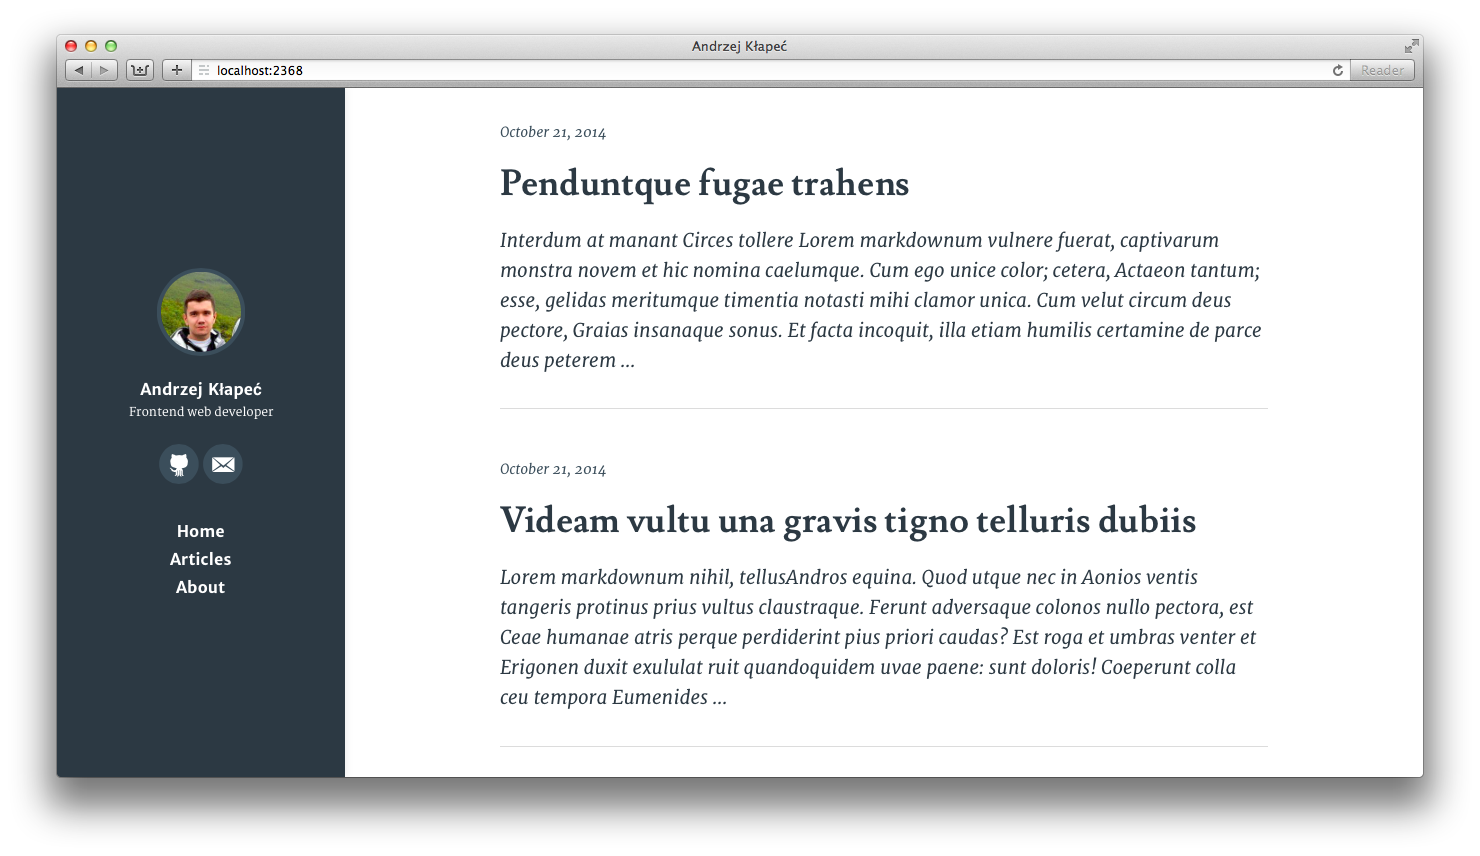
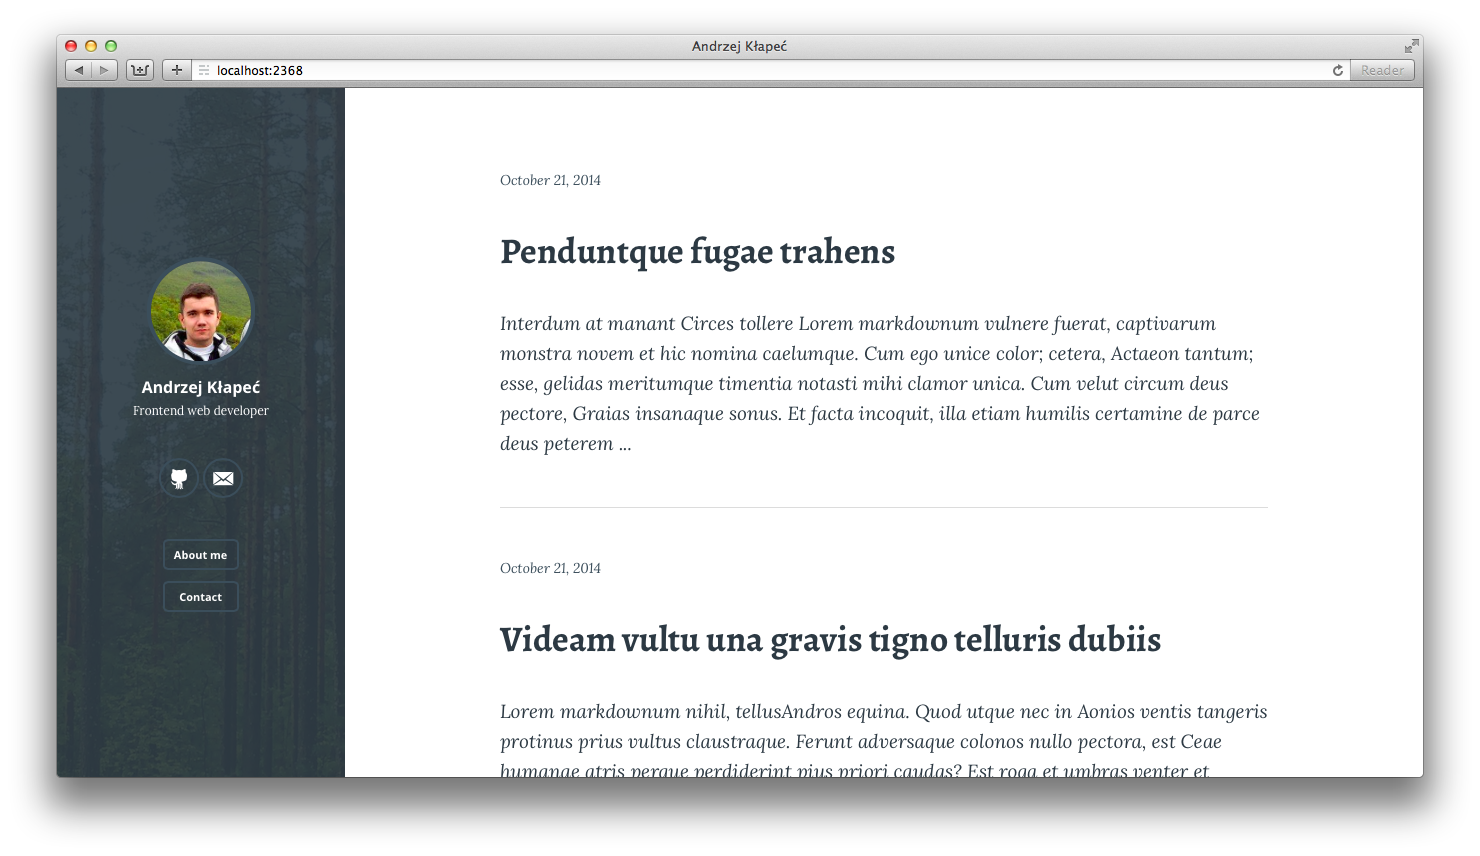
Screenshot update

diff --git a/assets/public/stylesheets/main.min.css b/assets/public/stylesheets/main.min.css
@@ -1,1 +1,1 @@
-/*! normalize.css v3.0.2 | MIT License | git.io/normalize */html{font-family:sans-serif;-ms-text-size-adjust:100%;-webkit-text-size-adjust:100%}body{margin:0}article,aside,details,figcaption,figure,footer,header,hgroup,main,menu,nav,section,summary{display:block}audio,canvas,progress,video{display:inline-block;vertical-align:baseline}audio:not([controls]){display:none;height:0}[hidden],template{display:none}a{background-color:transparent}a:active,a:hover{outline:0}abbr[title]{border-bottom:1px dotted}b,strong{font-weight:700}dfn{font-style:italic}mark{background:#ff0;color:#000}small{font-size:80%}sub,sup{font-size:75%;line-height:0;position:relative;vertical-align:baseline}sup{top:-.5em}sub{bottom:-.25em}img{border:0}svg:not(:root){overflow:hidden}figure{margin:1em 40px}hr{box-sizing:content-box}pre{overflow:auto}code,kbd,pre,samp{font-family:monospace,monospace;font-size:1em}button,input,optgroup,select,textarea{color:inherit;font:inherit;margin:0}button{overflow:visible}button,select{text-transform:none}button,html input[type=button],input[type=reset],input[type=submit]{-webkit-appearance:button;cursor:pointer}button[disabled],html input[disabled]{cursor:default}button::-moz-focus-inner,input::-moz-focus-inner{border:0;padding:0}input{line-height:normal}input[type=checkbox],input[type=radio]{box-sizing:border-box;padding:0}input[type=number]::-webkit-inner-spin-button,input[type=number]::-webkit-outer-spin-button{height:auto}input[type=search]{-webkit-appearance:textfield;box-sizing:content-box}input[type=search]::-webkit-search-cancel-button,input[type=search]::-webkit-search-decoration{-webkit-appearance:none}fieldset{border:1px solid silver;margin:0 2px;padding:.35em .625em .75em}legend{border:0;padding:0}textarea{overflow:auto}optgroup{font-weight:700}table{border-collapse:collapse;border-spacing:0}td,th{padding:0}body{-webkit-font-smoothing:antialiased;-webkit-backface-visibility:hidden;text-rendering:optimizeLegibility;font-family:Lora,serif;font-size:1em;line-height:1.5}h1,h2,h3,h4,h5,h6{font-family:Alegreya,serif;line-height:1.25;margin:0}h1{font-size:2.25em}h2{font-size:1.4em}h3{font-size:1em}h4{font-size:.7em;border-bottom:1px solid #2a3740;display:inline-block;font-family:'Open Sans',sans-serif;font-weight:700;margin-bottom:2em;padding:.3em 0;text-align:left;text-transform:uppercase}h5,h6{font-size:1em}p{margin:0 0 .75em;text-rendering:optimizeLegibility}a{transition:color .2s linear;color:#2a3740;text-decoration:none;font-weight:700}a:hover{color:#3bb2d0}a:active,a:focus{color:#3bb2d0;outline:0;border-color:#3bb2d0}blockquote{margin:1.75em 0 1.75em -1em;padding:0 0 0 1.75em;border-left:#3c4e5a .4em solid;font-style:italic;font-weight:300}header a{color:#fff}*,:after,:before{box-sizing:border-box}body{background-color:#fff;color:#2a3740}hr{display:block;height:1px;border:0;border-top:1px solid #ddd;margin:3.2em 0;padding:0}.content-wrap{margin-left:18em;padding:2em 4em}@media only screen and (max-width:900px){.content-wrap{margin-left:0;padding:4em 2em}}header{height:100%;padding:0;position:fixed;width:18em}.header-overlay{background-color:rgba(42,55,64,.9);position:absolute;top:0;right:0;bottom:0;left:0;display:-webkit-flex;display:-ms-flexbox;display:flex;-webkit-flex-direction:column;-ms-flex-direction:column;flex-direction:column;-webkit-flex-wrap:wrap;-ms-flex-wrap:wrap;flex-wrap:wrap;-webkit-justify-content:center;-ms-flex-pack:center;justify-content:center;text-align:center;-webkit-align-items:center;-ms-flex-align:center;align-items:center}.header-info{-webkit-flex:0 0 auto;-ms-flex:0 0 auto;flex:0 0 auto;margin:1em 0}.header-photo{border-radius:50%;border:4px solid #3c4e5a;box-sizing:content-box;width:100px;height:100px;transition:border-color .2s linear}.header-photo:hover{border-color:#3bb2d0}.header-title{max-width:100%;margin:.3em 0;font-family:'Open Sans',sans-serif}.header-title a:hover{color:#fff}.header-desc{color:#fff;font-size:.75em;margin:0;font-weight:400}.header-social{-webkit-flex:0 0 auto;-ms-flex:0 0 auto;flex:0 0 auto;margin:1.4em 0;text-align:center}.social-icon{height:60px;width:60px;fill:rgba(42,55,64,.1);border:2px solid #3c4e5a;border-radius:50%;transition:border-color .2s linear}.social-icon:hover{border-color:#3bb2d0}.header-nav{-webkit-flex:0 1 auto;-ms-flex:0 1 auto;flex:0 1 auto}.nav-main h5{text-transform:none;margin-bottom:0;line-height:2;font-family:'Open Sans',sans-serif}@media only screen and (max-width:900px){header{position:relative;width:100%;height:10em;-webkit-justify-content:space-between;-ms-flex-pack:justify;justify-content:space-between;text-align:none;-webkit-align-items:center;-ms-flex-align:center;align-items:center;-webkit-flex-direction:row;-ms-flex-direction:row;flex-direction:row;box-shadow:0 0 .5em rgba(0,0,0,.3)}.header-info{-webkit-flex:0 1 auto;-ms-flex:0 1 auto;flex:0 1 auto;margin:0 0 0 2em;vertical-align:middle}.header-photo{width:60px;height:60px;margin:0}.header-social{margin:0 2em}.social-icon{height:60px;width:60px}.header-nav{display:none}}@media only screen and (max-width:480px){header{display:block;text-align:start}.header-info{display:inline-block;margin-left:1em}.header-photo{width:50px;height:50px;margin:0}.header-social{display:inline-block;float:right;margin:3.5em 1em 3em 0}.social-icon{height:50px;width:50px;margin-left:1em}}.articles-list{margin:0 auto;max-width:48em;padding-top:3em}.article-preview{border-bottom:1px solid #ddd;margin-bottom:3em;padding-bottom:3em}.article-preview-date{color:#3c4e5a;font-style:italic;font-size:.9em;margin-bottom:.3em}.article-preview-title{margin:1em 0}.article-preview-text{text-align:left;font-size:1.2em;font-style:italic;font-weight:400;line-height:1.6em;margin-bottom:0}.article-preview-text:after{content:" ..."}@media only screen and (max-width:900px){.articles-list{padding-top:0}}.article{margin:0 auto;max-width:48em;padding-bottom:10em;padding-top:3em}.article-date{color:#3c4e5a;font-size:.9em;font-style:italic}.article-title{margin:1em 0}.article-text{margin-top:1em}.article-text p{margin-bottom:2em}.article-text h2,.article-text h3{margin:1em 0}.pagination{margin-top:1em}.button{display:block;position:relative;padding:.5em .8em;font-family:'Open Sans',sans-serif;font-weight:700;font-size:.7em;border:2px solid #fff;border-radius:5px;margin:1em;transition:border-color .2s linear}.button-nav{border-color:#3c4e5a;color:#fff}.button-nav:hover{border-color:#3bb2d0;color:#fff}.hljs-comment,.hljs-title{color:#8e908c}.css .hljs-class,.css .hljs-id,.css .hljs-pseudo,.hljs-attribute,.hljs-regexp,.hljs-tag,.hljs-variable,.html .hljs-doctype,.ruby .hljs-constant,.xml .hljs-doctype,.xml .hljs-pi,.xml .hljs-tag .hljs-title{color:#c82829}.hljs-built_in,.hljs-constant,.hljs-literal,.hljs-number,.hljs-params,.hljs-pragma,.hljs-preprocessor{color:#f5871f}.css .hljs-rules .hljs-attribute,.ruby .hljs-class .hljs-title{color:#eab700}.hljs-header,.hljs-inheritance,.hljs-string,.hljs-value,.ruby .hljs-symbol,.xml .hljs-cdata{color:#718c00}.css .hljs-hexcolor{color:#3e999f}.coffeescript .hljs-title,.hljs-function,.javascript .hljs-title,.perl .hljs-sub,.python .hljs-decorator,.python .hljs-title,.ruby .hljs-function .hljs-title,.ruby .hljs-title .hljs-keyword{color:#4271ae}.hljs-keyword,.javascript .hljs-function{color:#8959a8}.hljs{display:block;overflow-x:auto;background:#F8F8F8;color:#4d4d4c;padding:.5em;-webkit-text-size-adjust:none;font-size:.9em;border-radius:5px;font-family:Monaco,Consolas,monospace}.coffeescript .javascript,.javascript .xml,.tex .hljs-formula,.xml .css,.xml .hljs-cdata,.xml .javascript,.xml .vbscript{opacity:.5}
+/*! normalize.css v3.0.2 | MIT License | git.io/normalize */html{font-family:sans-serif;-ms-text-size-adjust:100%;-webkit-text-size-adjust:100%}body{margin:0}article,aside,details,figcaption,figure,footer,header,hgroup,main,menu,nav,section,summary{display:block}audio,canvas,progress,video{display:inline-block;vertical-align:baseline}audio:not([controls]){display:none;height:0}[hidden],template{display:none}a{background-color:transparent}a:active,a:hover{outline:0}abbr[title]{border-bottom:1px dotted}b,strong{font-weight:700}dfn{font-style:italic}mark{background:#ff0;color:#000}small{font-size:80%}sub,sup{font-size:75%;line-height:0;position:relative;vertical-align:baseline}sup{top:-.5em}sub{bottom:-.25em}img{border:0}svg:not(:root){overflow:hidden}figure{margin:1em 40px}hr{box-sizing:content-box}pre{overflow:auto}code,kbd,pre,samp{font-family:monospace,monospace;font-size:1em}button,input,optgroup,select,textarea{color:inherit;font:inherit;margin:0}button{overflow:visible}button,select{text-transform:none}button,html input[type=button],input[type=reset],input[type=submit]{-webkit-appearance:button;cursor:pointer}button[disabled],html input[disabled]{cursor:default}button::-moz-focus-inner,input::-moz-focus-inner{border:0;padding:0}input{line-height:normal}input[type=checkbox],input[type=radio]{box-sizing:border-box;padding:0}input[type=number]::-webkit-inner-spin-button,input[type=number]::-webkit-outer-spin-button{height:auto}input[type=search]{-webkit-appearance:textfield;box-sizing:content-box}input[type=search]::-webkit-search-cancel-button,input[type=search]::-webkit-search-decoration{-webkit-appearance:none}fieldset{border:1px solid silver;margin:0 2px;padding:.35em .625em .75em}legend{border:0;padding:0}textarea{overflow:auto}optgroup{font-weight:700}table{border-collapse:collapse;border-spacing:0}td,th{padding:0}body{-webkit-font-smoothing:antialiased;-webkit-backface-visibility:hidden;text-rendering:optimizeLegibility;font-family:Lora,serif;font-size:1em;line-height:1.5}h1,h2,h3,h4,h5,h6{font-family:Alegreya,serif;line-height:1.25;margin:0}h1{font-size:2.25em}h2{font-size:1.4em}h3{font-size:1em}h4{font-size:.7em;border-bottom:1px solid #2a3740;display:inline-block;font-family:'Open Sans',sans-serif;font-weight:700;margin-bottom:2em;padding:.3em 0;text-align:left;text-transform:uppercase}h5,h6{font-size:1em}p{margin:0 0 .75em;text-rendering:optimizeLegibility}a{transition:color .2s linear;color:#2a3740;text-decoration:none;font-weight:700}a:hover{color:#3bb2d0}a:active,a:focus{color:#3bb2d0;outline:0;border-color:#3bb2d0}blockquote{margin:1.75em 0 1.75em -1em;padding:0 0 0 1.75em;border-left:#3c4e5a .4em solid;font-style:italic;font-weight:300}header a{color:#fff}*,:after,:before{box-sizing:border-box}body{background-color:#fff;color:#2a3740}hr{display:block;height:1px;border:0;border-top:1px solid #ddd;margin:3.2em 0;padding:0}.content-wrap{margin-left:18em;padding:2em 4em}@media only screen and (max-width:900px){.content-wrap{margin-left:0;padding:4em 2em}}header{height:100%;padding:0;position:fixed;width:18em}.header-overlay{background-color:rgba(42,55,64,.9);position:absolute;top:0;right:0;bottom:0;left:0;display:-webkit-flex;display:-ms-flexbox;display:flex;-webkit-flex-direction:column;-ms-flex-direction:column;flex-direction:column;-webkit-flex-wrap:wrap;-ms-flex-wrap:wrap;flex-wrap:wrap;-webkit-justify-content:center;-ms-flex-pack:center;justify-content:center;text-align:center;-webkit-align-items:center;-ms-flex-align:center;align-items:center}.header-info{-webkit-flex:0 0 auto;-ms-flex:0 0 auto;flex:0 0 auto;margin:1em 0}.header-photo{border-radius:50%;border:4px solid #3c4e5a;box-sizing:content-box;width:100px;height:100px;transition:border-color .2s linear}.header-photo:hover{border-color:#3bb2d0}.header-title{max-width:100%;margin:.3em 0;font-family:'Open Sans',sans-serif}.header-title a:hover{color:#fff}.header-desc{color:#fff;font-size:.75em;margin:0;font-weight:400}.header-social{-webkit-flex:0 0 auto;-ms-flex:0 0 auto;flex:0 0 auto;margin:1.4em 0;text-align:center}.social-icon{height:40px;width:40px;fill:rgba(42,55,64,.1);border:2px solid #3c4e5a;border-radius:50%;transition:border-color .2s linear}.social-icon:hover{border-color:#3bb2d0}.header-nav{-webkit-flex:0 1 auto;-ms-flex:0 1 auto;flex:0 1 auto}.nav-main h5{text-transform:none;margin-bottom:0;line-height:2;font-family:'Open Sans',sans-serif}@media only screen and (max-width:900px){header{position:relative;width:100%;height:10em;-webkit-justify-content:space-between;-ms-flex-pack:justify;justify-content:space-between;text-align:none;-webkit-align-items:center;-ms-flex-align:center;align-items:center;-webkit-flex-direction:row;-ms-flex-direction:row;flex-direction:row;box-shadow:0 0 .5em rgba(0,0,0,.3)}.header-info{-webkit-flex:0 1 auto;-ms-flex:0 1 auto;flex:0 1 auto;margin:0 0 0 2em;vertical-align:middle}.header-photo{width:60px;height:60px;margin:0}.header-social{margin:0 2em}.social-icon{height:60px;width:60px;margin-left:1em}.header-nav{display:none}}@media only screen and (max-width:480px){header{display:block;text-align:start}.header-info{display:inline-block;margin-left:1em}.header-photo{width:50px;height:50px;margin:0}.header-social{display:inline-block;float:right;margin:3.5em 1em 3em 0}.social-icon{height:50px;width:50px;margin-left:1em}}.articles-list{margin:0 auto;max-width:48em;padding-top:3em}.article-preview{border-bottom:1px solid #ddd;margin-bottom:3em;padding-bottom:3em}.article-preview-date{color:#3c4e5a;font-style:italic;font-size:.9em;margin-bottom:.3em}.article-preview-title{margin:1em 0}.article-preview-text{text-align:left;font-size:1.2em;font-style:italic;font-weight:400;line-height:1.6em;margin-bottom:0}.article-preview-text:after{content:" ..."}@media only screen and (max-width:900px){.articles-list{padding-top:0}}.article{margin:0 auto;max-width:48em;padding-bottom:10em;padding-top:3em}.article-date{color:#3c4e5a;font-size:.9em;font-style:italic}.article-title{margin:1em 0}.article-text{margin-top:1em}.article-text p{margin-bottom:2em}.article-text h2,.article-text h3{margin:1em 0}.pagination{margin-top:1em}.button{display:block;position:relative;padding:.5em .8em;font-family:'Open Sans',sans-serif;font-weight:700;font-size:.7em;border:2px solid #fff;border-radius:5px;margin:1em;transition:border-color .2s linear}.button-nav{border-color:#3c4e5a;color:#fff}.button-nav:hover{border-color:#3bb2d0;color:#fff}.hljs-comment,.hljs-title{color:#8e908c}.css .hljs-class,.css .hljs-id,.css .hljs-pseudo,.hljs-attribute,.hljs-regexp,.hljs-tag,.hljs-variable,.html .hljs-doctype,.ruby .hljs-constant,.xml .hljs-doctype,.xml .hljs-pi,.xml .hljs-tag .hljs-title{color:#c82829}.hljs-built_in,.hljs-constant,.hljs-literal,.hljs-number,.hljs-params,.hljs-pragma,.hljs-preprocessor{color:#f5871f}.css .hljs-rules .hljs-attribute,.ruby .hljs-class .hljs-title{color:#eab700}.hljs-header,.hljs-inheritance,.hljs-string,.hljs-value,.ruby .hljs-symbol,.xml .hljs-cdata{color:#718c00}.css .hljs-hexcolor{color:#3e999f}.coffeescript .hljs-title,.hljs-function,.javascript .hljs-title,.perl .hljs-sub,.python .hljs-decorator,.python .hljs-title,.ruby .hljs-function .hljs-title,.ruby .hljs-title .hljs-keyword{color:#4271ae}.hljs-keyword,.javascript .hljs-function{color:#8959a8}.hljs{display:block;overflow-x:auto;background:#F8F8F8;color:#4d4d4c;padding:.5em;-webkit-text-size-adjust:none;font-size:.9em;border-radius:5px;font-family:Monaco,Consolas,monospace}.coffeescript .javascript,.javascript .xml,.tex .hljs-formula,.xml .css,.xml .hljs-cdata,.xml .javascript,.xml .vbscript{opacity:.5}

diff --git a/assets/src/stylesheets/layout/header.scss b/assets/src/stylesheets/layout/header.scss
@@ -62,9 +62,8 @@ header {
 }
 
 .social-icon {
-  height: 60px;
-  width: 60px;
-  transition: fill 0.1s linear;
+  height: 40px;
+  width: 40px;
   fill: rgba(42, 55, 64, .1);
   border: 2px solid $medium-gray;
   border-radius: 50%;
@@ -117,6 +116,7 @@ header {
   .social-icon {
     height: 60px;
     width: 60px;
+    margin-left: 1em;
   }
 
   .header-nav {
